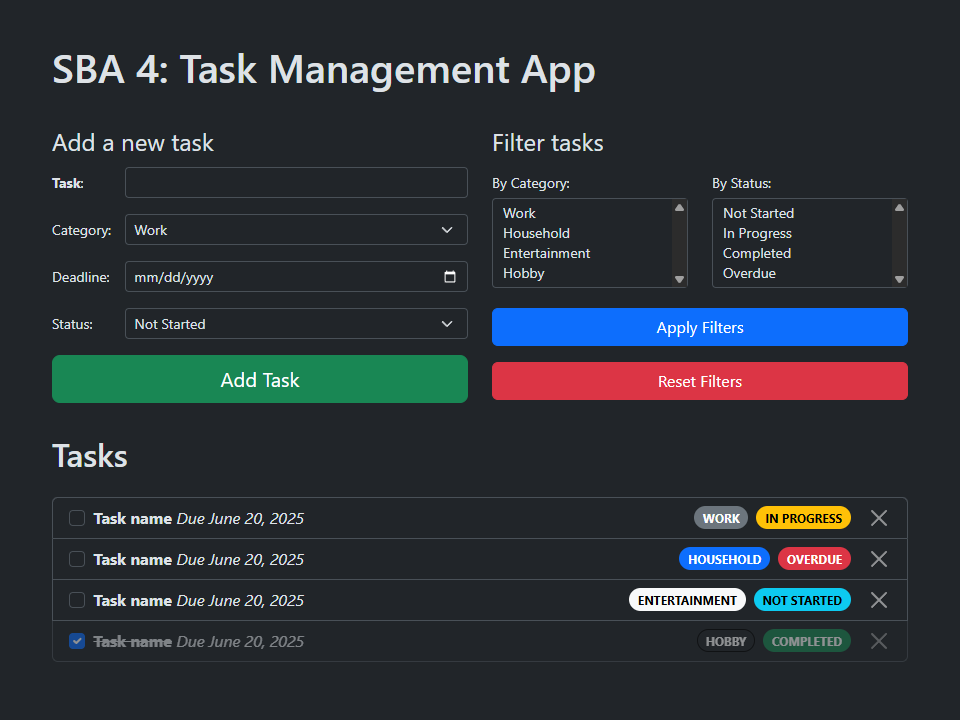
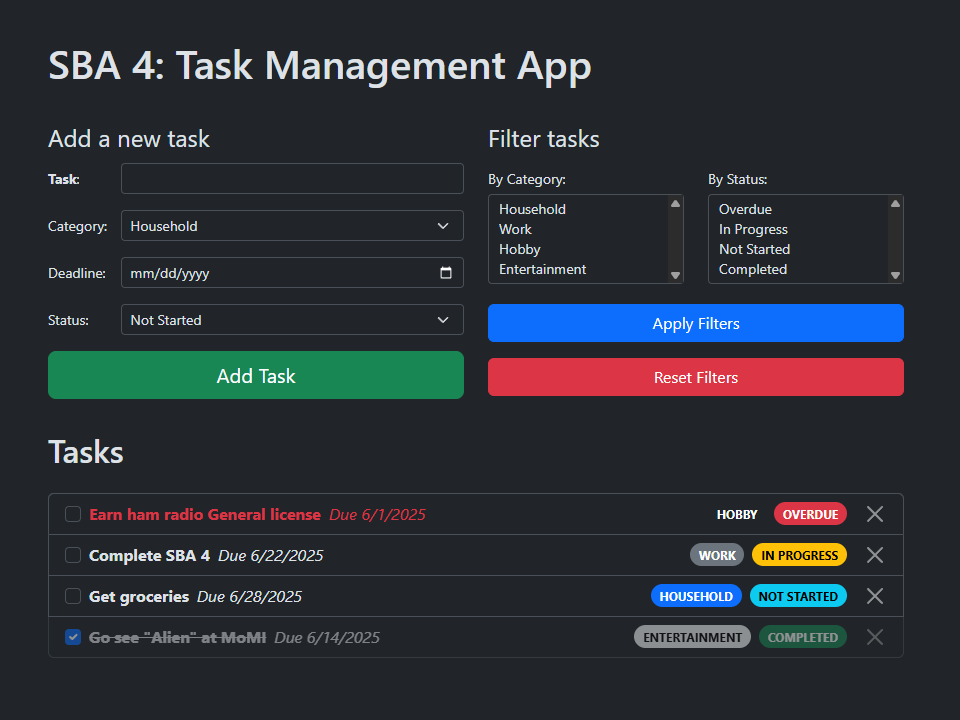
Added Netlify deploy link and new preview image.

diff --git a/README.md b/README.md
@@ -10,13 +10,13 @@
 
 
 ### Viewer Instructions
-
+Go to [incredible-mousse-c22548.netlify.app](https://incredible-mousse-c22548.netlify.app/); view solution source below.
 
 ### Solution Source
 Solution source code can be found at the links below:
-- **HTML**: [`./index.html`](./index.html)
-- **JavaScript**: [`./app.js`](./app.js)
-- **CSS**: [`./style.css`](./style.css)
+- **HTML**: [`index.html`](./index.html)
+- **JavaScript**: [`app.js`](./app.js)
+- **CSS**: [`style.css`](./style.css)
 
 
 ### Reflection
